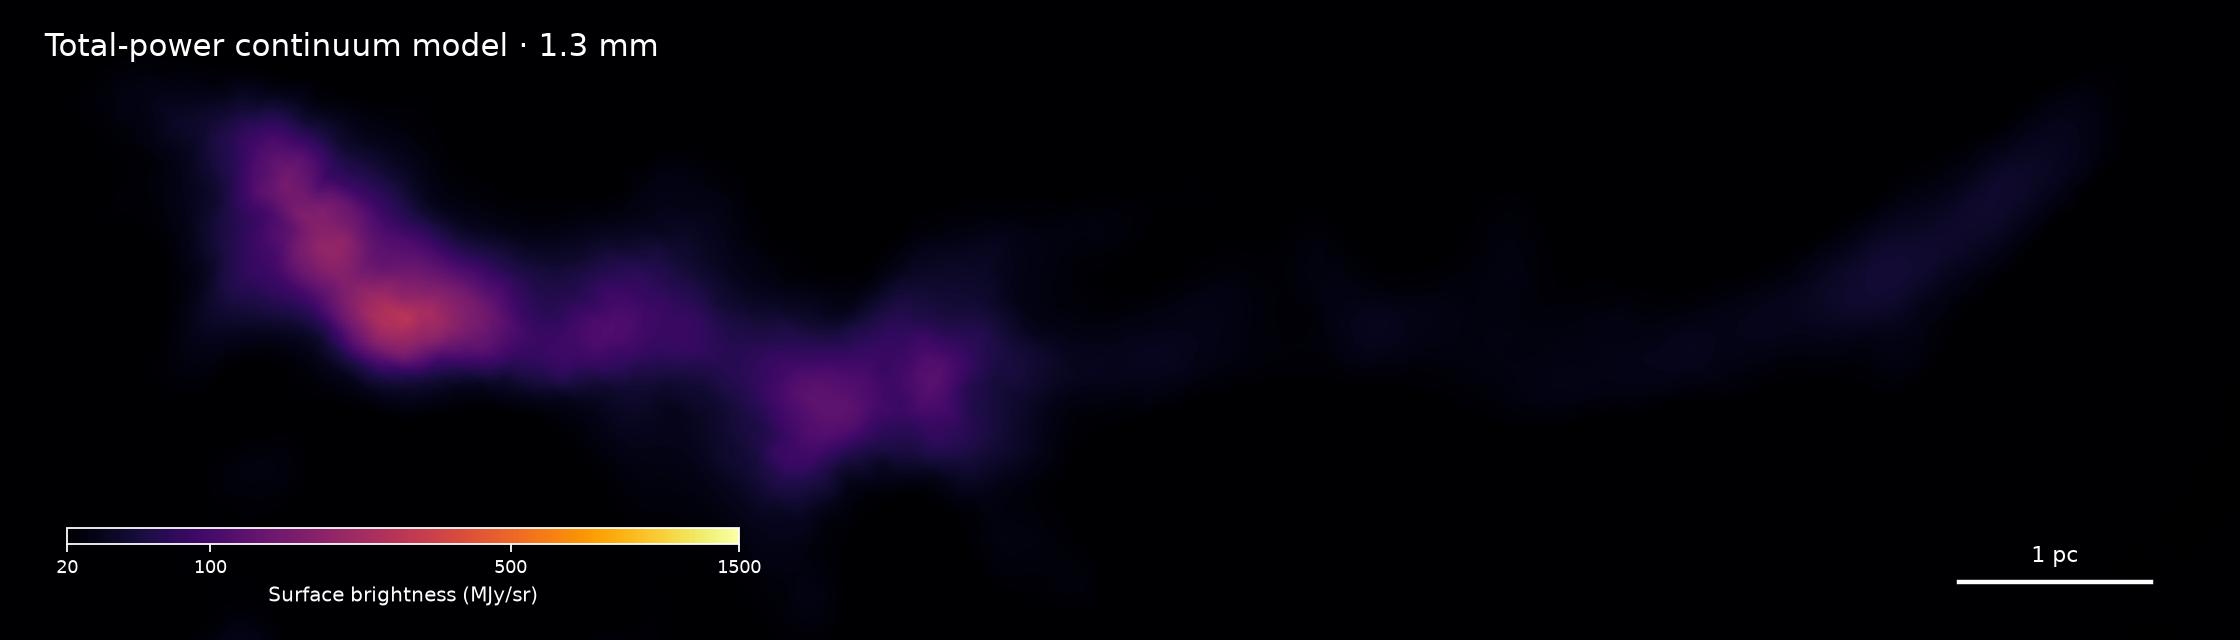
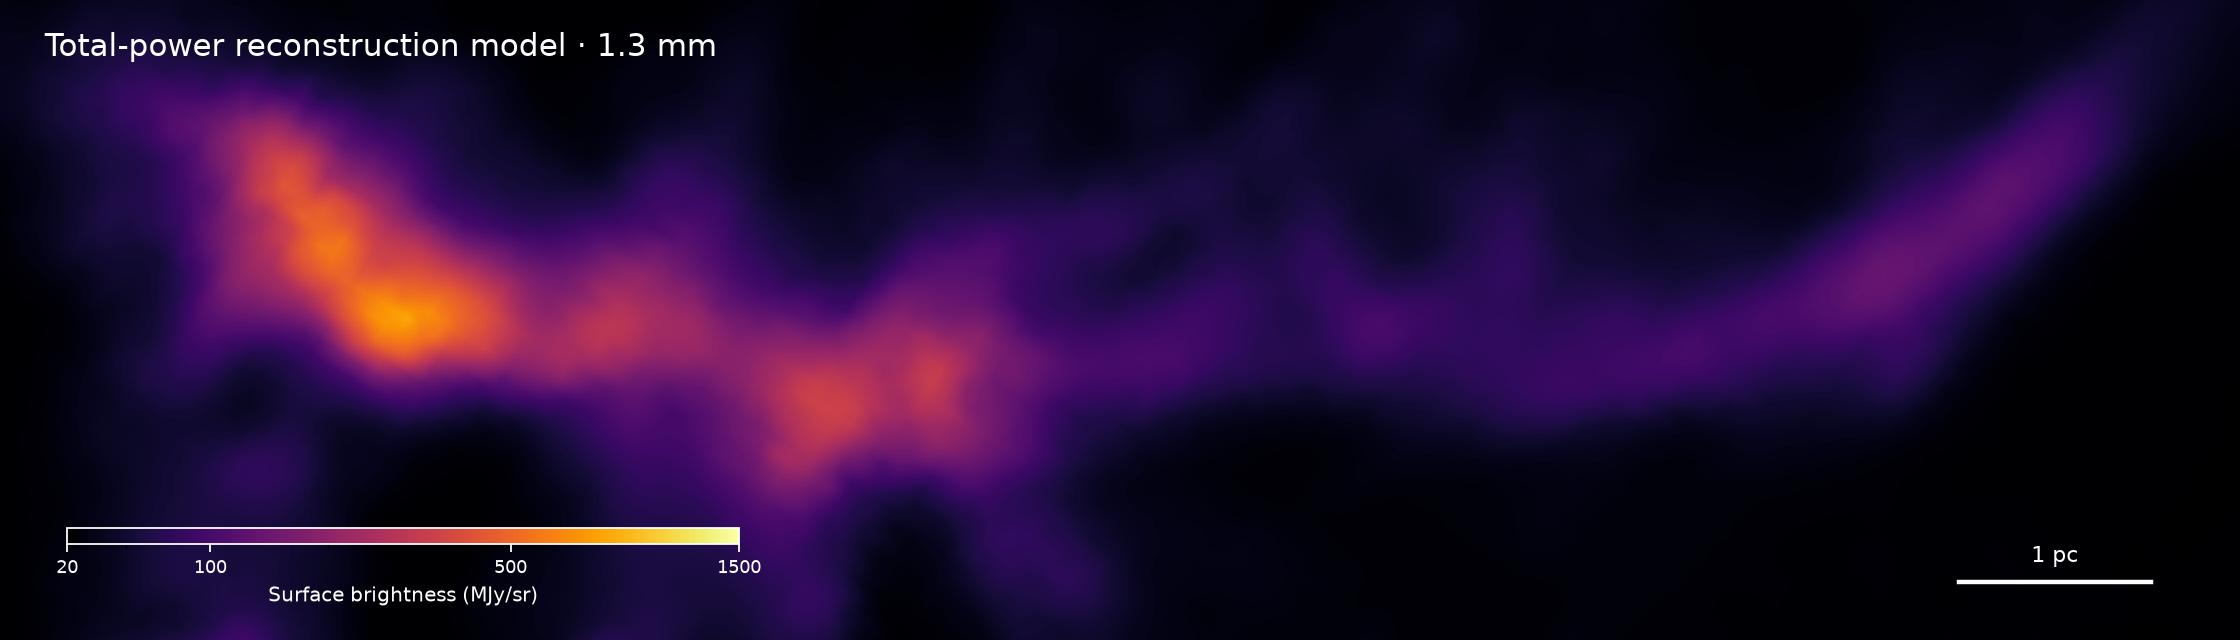
Brighten total-power gallery reconstruction by 2.7

diff --git a/website/observations.html b/website/observations.html
@@ -1,4 +1,4 @@
-<!doctype html><html lang="en"><head><meta charset="utf-8"><meta name="viewport" content="width=device-width,initial-scale=1"><meta name="description" content="LANCET explores how gas assembles into stars and clusters in the G316.8 filament."><title>Observations · LANCET</title><link rel="stylesheet" href="style.css?v=matched-mm"></head><body><a class="skip" href="#main">Skip to content</a><header><a class="brand logo-brand" href="index.html" aria-label="LANCET home"><img src="assets/lancet-logo.png?v=antenna-20261110" alt="LANCET" width="1536" height="1024"></a><nav aria-label="Main navigation"><a  href='index.html'>The project</a><a aria-current='page' href='observations.html'>Observations</a><a  href='research.html'>Research</a><a  href='team.html'>Our team</a></nav><a class="code" href="https://github.com/XFengwei/LANCET">Code ↗</a></header><main id="main"><section class="page-top"><span class="eyebrow">Our window into the cloud</span><h1>Collecting<br><em>faint light.</em></h1><p class="lead">Complementary telescopes connect the extended reservoir to the compact structures within it.</p></section><div class="telescope-grid">
+<!doctype html><html lang="en"><head><meta charset="utf-8"><meta name="viewport" content="width=device-width,initial-scale=1"><meta name="description" content="LANCET explores how gas assembles into stars and clusters in the G316.8 filament."><title>Observations · LANCET</title><link rel="stylesheet" href="style.css?v=tp-brightened"></head><body><a class="skip" href="#main">Skip to content</a><header><a class="brand logo-brand" href="index.html" aria-label="LANCET home"><img src="assets/lancet-logo.png?v=antenna-20261110" alt="LANCET" width="1536" height="1024"></a><nav aria-label="Main navigation"><a  href='index.html'>The project</a><a aria-current='page' href='observations.html'>Observations</a><a  href='research.html'>Research</a><a  href='team.html'>Our team</a></nav><a class="code" href="https://github.com/XFengwei/LANCET">Code ↗</a></header><main id="main"><section class="page-top"><span class="eyebrow">Our window into the cloud</span><h1>Collecting<br><em>faint light.</em></h1><p class="lead">Complementary telescopes connect the extended reservoir to the compact structures within it.</p></section><div class="telescope-grid">
 <a class="telescope-card" href="https://www.almaobservatory.org/"><img src="assets/telescope-alma-ann13016a.jpg" alt="ALMA antennas at night beneath the Magellanic Clouds" loading="lazy"><div class="telescope-copy"><span class="eyebrow">1.3 mm / continuum & spectral lines</span><h3>ALMA <span aria-hidden="true">↗</span></h3><p>The 12 m C2 and C5 configurations and the ACA 7 m array resolve dense cores while retaining larger filament structure. Band 6 observations combine 1.3 mm continuum with molecular lines including C¹⁸O, CO, H₂CO, ¹³CS, and N₂D⁺; total-power line data recover extended gas.</p><small>Image: ESO / C. Malin</small></div></a>
 <a class="telescope-card" href="https://www.esa.int/Science_Exploration/Space_Science/Herschel"><img src="assets/telescope-herschel.jpg" alt="Artist’s impression of the Herschel space telescope" loading="lazy"><div class="telescope-copy"><span class="eyebrow">70–500 μm / far infrared</span><h3>Herschel <span aria-hidden="true">↗</span></h3><p>PACS and SPIRE maps trace the cloud’s thermal dust emission. The far-infrared spectral energy distribution constrains dust temperature and column density, while the 70 μm and 250 μm views connect embedded heating sources to the extended reservoir.</p><small>Image: ESA / AOES Medialab · artist’s impression</small></div></a>
 <a class="telescope-card" href="https://www.apex-telescope.org/"><img src="assets/telescope-apex-mpifr.jpg" alt="The APEX telescope on the Chajnantor plateau" loading="lazy"><div class="telescope-copy"><span class="eyebrow">350 & 450 μm / 1.3 mm</span><h3>APEX <span aria-hidden="true">↗</span></h3><p>ArTéMiS bolometric imaging adds finer detail to the cold-dust structure traced by Herschel. Complementary nFLASH230 spectral-line observations probe molecular gas, linking single-dish measurements of the filament to the interferometric data.</p><small>Image: MPIfR</small></div></a>
@@ -6,5 +6,5 @@
 <a class="telescope-card" href="https://www.eso.org/public/teles-instr/paranal-observatory/surveytelescopes/vista/"><img src="assets/telescope-vista.jpg" alt="VISTA telescope inside its enclosure at Paranal" loading="lazy"><div class="telescope-copy"><span class="eyebrow">1.25–2.15 μm / near infrared</span><h3>VISTA <span aria-hidden="true">↗</span></h3><p>VVV J, H, and Kₛ imagery traces the stellar population and extinction across the filament. Together with GLIMPSE photometry, these data distinguish evolutionary stages from the dark northern cloud to the illuminated southern H II regions.</p><small>Image: ESO</small></div></a>
 <a class="telescope-card" href="https://www.atnf.csiro.au/facilities/australia-telescope-compact-array/"><img src="assets/telescope-atca.jpg" alt="Radio dishes of the Australia Telescope Compact Array" loading="lazy"><div class="telescope-copy"><span class="eyebrow">5.5 GHz / 5.5 cm</span><h3>ATCA <span aria-hidden="true">↗</span></h3><p>The CORNISH-South 5.5 GHz continuum map resolves ionized emission at 2.5 arcsec. It constrains free-free emission around the H II regions and its contribution to the millimetre continuum used for core and fragment mass estimates.</p><small>Image: CSIRO</small></div></a>
 <a class="telescope-card" href="https://www.sarao.ac.za/science/meerkat/"><img src="assets/telescope-meerkat.jpg" alt="MeerKAT radio interferometer in the Karoo" loading="lazy"><div class="telescope-copy"><span class="eyebrow">0.9–1.6 GHz / 19–33 cm</span><h3>MeerKAT <span aria-hidden="true">↗</span></h3><p>The MeerKAT Galactic Plane Survey maps extended radio emission along the filament. Its multi-frequency continuum data, including the 1.38 GHz view shown on our front page, complement ATCA in modelling the free-free contribution to the total continuum.</p><small>Image: SARAO</small></div></a>
-</div><section><div class="section-head"><div><span class="eyebrow">A closer look</span><h2>The invisible, revealed.</h2></div><a href="observations.html">Discover the data ↗</a></div><figure class="wavelength-gallery"><div class="gallery-frames"><img class="gallery-frame is-visible" src="assets/gallery-nir.jpg?v=gallery-3" alt="Near-infrared view of G316.8 with wavelength label, compass and scale bar"><img class="gallery-frame" src="assets/gallery-mir.jpg?v=gallery-3" alt="Mid-infrared view of G316.8 with wavelength label, compass and scale bar"><img class="gallery-frame" src="assets/gallery-fir.jpg?v=gallery-3" alt="Far-infrared view of G316.8 with wavelength label, compass and scale bar"><img class="gallery-frame" src="assets/gallery-mm.jpg?v=gallery-3" alt="Millimeter view of G316.8 with wavelength label, compass and scale bar"><img class="gallery-frame" src="assets/gallery-radio.jpg?v=gallery-3" alt="Radio view of G316.8 with wavelength label, compass and scale bar"></div><div class="gallery-buttons" aria-label="Choose wavelength"><button type="button" aria-pressed="true">Near-infrared</button><button type="button" aria-pressed="false">Mid-infrared</button><button type="button" aria-pressed="false">Far-infrared</button><button type="button" aria-pressed="false">Millimeter</button><button type="button" aria-pressed="false">Radio</button></div><figcaption>The same filament across five wavelength ranges, from near-infrared to radio. Select a wavelength to explore; the gallery advances every five seconds and pauses while you interact.</figcaption></figure></section><section><span class="eyebrow">The survey footprint</span><h2>Entire filament, fully covered</h2><figure><a href="assets/footprints.jpg"><img class="science-image" src="assets/footprints.jpg" alt="ACA 7 m and ALMA 12 m pointing footprints over Herschel 250 micron and Spitzer 5.8 micron maps"></a><figcaption>Actual pointing centres (12 m C2 and C5 share the same blue color) over Herschel 250 μm and Spitzer 5.8 μm maps. Circles show approximate primary-beam FWHM at 225 GHz: 43 arcsec for 7 m and 26 arcsec for 12 m. These illustrate individual fields, not a uniform mosaic sensitivity boundary. Click to enlarge.</figcaption></figure></section><section><span class="eyebrow">Continuum / from sampling to structure</span><h2>Recovering the full picture.</h2><p>Our largely completed continuum workflow combines complementary array configurations and a model of extended emission. Each step below exposes the evidence behind the resulting image.</p><div class="workflow-step"><h3>01 / Pointings and spatial-frequency coverage</h3><p>ACA 7 m and ALMA 12 m pointing centres, uv coverage, and visibility-amplitude profiles. The TP reference represents the reconstructed continuum model.</p><figure><a href="assets/coverage.jpg"><img class="science-image" loading="lazy" src="assets/coverage.jpg" alt="ACA 7 m and ALMA 12 m pointing centres, uv coverage, and visibility-amplitude profiles. The TP reference represents the reconstructed continuum model."></a><figcaption>ACA 7 m and ALMA 12 m pointing centres, uv coverage, and visibility-amplitude profiles. The TP reference represents the reconstructed continuum model. Click to view at full size.</figcaption></figure></div><div class="workflow-step"><h3>02 / Combining arrays and restoring extended emission</h3><p>From individual arrays to the fully combined continuum: compare compact structure and extended emission across the full filament.</p><figure class="wavelength-gallery"><div class="gallery-frames array-gallery-frames"><img class="gallery-frame is-visible" src="assets/array-aca.jpg?v=matched-mm" alt="ACA 7 m, full filament view with a shared surface-brightness colour bar"><img class="gallery-frame" src="assets/array-12m.jpg?v=matched-mm" alt="ALMA 12 m, full filament view with a shared surface-brightness colour bar"><img class="gallery-frame" src="assets/array-combined.jpg?v=matched-mm" alt="12 m + 7 m, full filament view with a shared surface-brightness colour bar"><img class="gallery-frame" src="assets/array-tp.jpg?v=matched-mm" alt="Total power, full filament view with a shared surface-brightness colour bar"><img class="gallery-frame" src="assets/array-full.jpg?v=matched-mm" alt="Fully combined, full filament view with a shared surface-brightness colour bar"></div><div class="gallery-buttons" aria-label="Choose continuum product"><button type="button" aria-pressed="true">ACA 7 m</button><button type="button" aria-pressed="false">ALMA 12 m</button><button type="button" aria-pressed="false">12 m + 7 m</button><button type="button" aria-pressed="false">Total power</button><button type="button" aria-pressed="false">Fully combined</button></div><figcaption>All five views match the multiwavelength millimeter panel’s 14 × 4 arcmin field, rotation, and inferno colour scale (20–1500 MJy/sr, with the same asinh stretch). Total power is the reconstructed dust-plus-free-free continuum model; J-comb combines it with the interferometric image to restore extended emission. As in the multiwavelength panel, the fully combined view uses the continuum model to fill beyond the interferometric footprint. Images retain their native angular resolutions. Select a product or follow the five-second crossfades.</figcaption></figure></div></section><section><span class="eyebrow">Spectral lines / a separate workflow</span><h2>Resolving the gas in velocity.</h2><p>All six targeted narrow spectral windows documented in Paper I are listed below. Frequencies are observing-window centres, not molecular rest frequencies. Coverage does not imply that every transition is detected or has a completed combined cube.</p><div class="table-wrap"><table><thead><tr><th>Molecule</th><th>Transition</th><th>Window centre (GHz)</th></tr></thead><tbody><tr><td>H₂CO</td><td>3₀₃–2₀₂</td><td>218.248</td></tr><tr><td>H₂CO</td><td>3₂₂–2₂₁</td><td>218.484</td></tr><tr><td>C¹⁸O</td><td>2–1</td><td>219.587</td></tr><tr><td>CO</td><td>2–1</td><td>230.565</td></tr><tr><td>¹³CS</td><td>5–4</td><td>231.249</td></tr><tr><td>N₂D⁺</td><td>3–2</td><td>231.350</td></tr></tbody></table></div><p>Two wide windows centred at 216.732 and 230.940 GHz provide additional spectral coverage and continuum bandwidth.</p><div class="cards"><article><span class="eyebrow">01 / PREPARE</span><h3>Continuum subtraction</h3><p>Line-free channels are fitted in visibility space before cube imaging.</p></article><article><span class="eyebrow">02 / IMAGE</span><h3>Joint array imaging</h3><p>Current C¹⁸O work tests joint 12 m and 7 m imaging. H₂CO 3₀₃–2₀₂ continuum-subtracted measurement sets are also available.</p></article><article><span class="eyebrow">03 / COMBINE</span><h3>Recover extended line emission</h3><p>The C¹⁸O pilot combines the interferometric cube with LSRK total-power data. Its processing status is distinct from the completed continuum products.</p></article></div></section><section class="technical"><span class="eyebrow">Work with LANCET</span><h2>Science with a traceable workflow.</h2><p>The Python package, runnable scripts, and per-task documentation live together in the repository. Data-dependent tasks require their declared local inputs; observational data are not bundled with the code.</p><pre><code>python -m pip install -e ".[dev]"
+</div><section><div class="section-head"><div><span class="eyebrow">A closer look</span><h2>The invisible, revealed.</h2></div><a href="observations.html">Discover the data ↗</a></div><figure class="wavelength-gallery"><div class="gallery-frames"><img class="gallery-frame is-visible" src="assets/gallery-nir.jpg?v=gallery-3" alt="Near-infrared view of G316.8 with wavelength label, compass and scale bar"><img class="gallery-frame" src="assets/gallery-mir.jpg?v=gallery-3" alt="Mid-infrared view of G316.8 with wavelength label, compass and scale bar"><img class="gallery-frame" src="assets/gallery-fir.jpg?v=gallery-3" alt="Far-infrared view of G316.8 with wavelength label, compass and scale bar"><img class="gallery-frame" src="assets/gallery-mm.jpg?v=gallery-3" alt="Millimeter view of G316.8 with wavelength label, compass and scale bar"><img class="gallery-frame" src="assets/gallery-radio.jpg?v=gallery-3" alt="Radio view of G316.8 with wavelength label, compass and scale bar"></div><div class="gallery-buttons" aria-label="Choose wavelength"><button type="button" aria-pressed="true">Near-infrared</button><button type="button" aria-pressed="false">Mid-infrared</button><button type="button" aria-pressed="false">Far-infrared</button><button type="button" aria-pressed="false">Millimeter</button><button type="button" aria-pressed="false">Radio</button></div><figcaption>The same filament across five wavelength ranges, from near-infrared to radio. Select a wavelength to explore; the gallery advances every five seconds and pauses while you interact.</figcaption></figure></section><section><span class="eyebrow">The survey footprint</span><h2>Entire filament, fully covered</h2><figure><a href="assets/footprints.jpg"><img class="science-image" src="assets/footprints.jpg" alt="ACA 7 m and ALMA 12 m pointing footprints over Herschel 250 micron and Spitzer 5.8 micron maps"></a><figcaption>Actual pointing centres (12 m C2 and C5 share the same blue color) over Herschel 250 μm and Spitzer 5.8 μm maps. Circles show approximate primary-beam FWHM at 225 GHz: 43 arcsec for 7 m and 26 arcsec for 12 m. These illustrate individual fields, not a uniform mosaic sensitivity boundary. Click to enlarge.</figcaption></figure></section><section><span class="eyebrow">Continuum / from sampling to structure</span><h2>Recovering the full picture.</h2><p>Our largely completed continuum workflow combines complementary array configurations and a model of extended emission. Each step below exposes the evidence behind the resulting image.</p><div class="workflow-step"><h3>01 / Pointings and spatial-frequency coverage</h3><p>ACA 7 m and ALMA 12 m pointing centres, uv coverage, and visibility-amplitude profiles. The TP reference represents the reconstructed continuum model.</p><figure><a href="assets/coverage.jpg"><img class="science-image" loading="lazy" src="assets/coverage.jpg" alt="ACA 7 m and ALMA 12 m pointing centres, uv coverage, and visibility-amplitude profiles. The TP reference represents the reconstructed continuum model."></a><figcaption>ACA 7 m and ALMA 12 m pointing centres, uv coverage, and visibility-amplitude profiles. The TP reference represents the reconstructed continuum model. Click to view at full size.</figcaption></figure></div><div class="workflow-step"><h3>02 / Combining arrays and restoring extended emission</h3><p>From individual arrays to the fully combined continuum: compare compact structure and extended emission across the full filament.</p><figure class="wavelength-gallery"><div class="gallery-frames array-gallery-frames"><img class="gallery-frame is-visible" src="assets/array-aca.jpg?v=tp-brightened" alt="ACA 7 m, full filament view with a shared surface-brightness colour bar"><img class="gallery-frame" src="assets/array-12m.jpg?v=tp-brightened" alt="ALMA 12 m, full filament view with a shared surface-brightness colour bar"><img class="gallery-frame" src="assets/array-combined.jpg?v=tp-brightened" alt="12 m + 7 m, full filament view with a shared surface-brightness colour bar"><img class="gallery-frame" src="assets/array-tp.jpg?v=tp-brightened" alt="Total power, full filament view with a shared surface-brightness colour bar"><img class="gallery-frame" src="assets/array-full.jpg?v=tp-brightened" alt="Fully combined, full filament view with a shared surface-brightness colour bar"></div><div class="gallery-buttons" aria-label="Choose continuum product"><button type="button" aria-pressed="true">ACA 7 m</button><button type="button" aria-pressed="false">ALMA 12 m</button><button type="button" aria-pressed="false">12 m + 7 m</button><button type="button" aria-pressed="false">Total power</button><button type="button" aria-pressed="false">Fully combined</button></div><figcaption>All five views match the multiwavelength millimeter panel’s 14 × 4 arcmin field, rotation, and inferno colour scale (20–1500 MJy/sr, with the same asinh stretch). Total power is the reconstructed dust-plus-free-free continuum model, brightened by a display factor of 2.7; J-comb combines it with the interferometric image to restore extended emission. As in the multiwavelength panel, the fully combined view uses the continuum model to fill beyond the interferometric footprint. Images retain their native angular resolutions. Select a product or follow the five-second crossfades.</figcaption></figure></div></section><section><span class="eyebrow">Spectral lines / a separate workflow</span><h2>Resolving the gas in velocity.</h2><p>All six targeted narrow spectral windows documented in Paper I are listed below. Frequencies are observing-window centres, not molecular rest frequencies. Coverage does not imply that every transition is detected or has a completed combined cube.</p><div class="table-wrap"><table><thead><tr><th>Molecule</th><th>Transition</th><th>Window centre (GHz)</th></tr></thead><tbody><tr><td>H₂CO</td><td>3₀₃–2₀₂</td><td>218.248</td></tr><tr><td>H₂CO</td><td>3₂₂–2₂₁</td><td>218.484</td></tr><tr><td>C¹⁸O</td><td>2–1</td><td>219.587</td></tr><tr><td>CO</td><td>2–1</td><td>230.565</td></tr><tr><td>¹³CS</td><td>5–4</td><td>231.249</td></tr><tr><td>N₂D⁺</td><td>3–2</td><td>231.350</td></tr></tbody></table></div><p>Two wide windows centred at 216.732 and 230.940 GHz provide additional spectral coverage and continuum bandwidth.</p><div class="cards"><article><span class="eyebrow">01 / PREPARE</span><h3>Continuum subtraction</h3><p>Line-free channels are fitted in visibility space before cube imaging.</p></article><article><span class="eyebrow">02 / IMAGE</span><h3>Joint array imaging</h3><p>Current C¹⁸O work tests joint 12 m and 7 m imaging. H₂CO 3₀₃–2₀₂ continuum-subtracted measurement sets are also available.</p></article><article><span class="eyebrow">03 / COMBINE</span><h3>Recover extended line emission</h3><p>The C¹⁸O pilot combines the interferometric cube with LSRK total-power data. Its processing status is distinct from the completed continuum products.</p></article></div></section><section class="technical"><span class="eyebrow">Work with LANCET</span><h2>Science with a traceable workflow.</h2><p>The Python package, runnable scripts, and per-task documentation live together in the repository. Data-dependent tasks require their declared local inputs; observational data are not bundled with the code.</p><pre><code>python -m pip install -e ".[dev]"
 python scripts/prepare_continuum_images.py --stage inspect</code></pre><a class="button" href="https://github.com/XFengwei/LANCET/tree/main/tasks">Explore task documentation ↗</a></section></main><footer><a class="brand logo-brand" href="index.html" aria-label="LANCET home"><img src="assets/lancet-logo.png?v=antenna-20261110" alt="LANCET" width="1536" height="1024"></a><p>Linear filament and nested cluster evolution tomography</p><a href="https://github.com/XFengwei/LANCET">Explore the repository ↗</a></footer><script src="gallery.js?v=arrays-1" defer></script></body></html>

diff --git a/website/tools/build_array_gallery.py b/website/tools/build_array_gallery.py
@@ -18,7 +18,7 @@ view = tomllib.loads((ROOT/'tasks/multiwavelength_strip/task.toml').read_text())
 # Use the exact field, rotation, and sampling of the multiwavelength gallery.
 wcs, shape = strip.strip_wcs(view)
 inputs = [(name, ROOT/config['images'][key], label) for name, key, label in [('aca','aca_pbcor','ACA 7 m'), ('12m','twelve_m_pbcor','ALMA 12 m'), ('combined','combined_pbcut','ALMA 12 m + ACA 7 m')]]
-inputs += [('tp', ROOT/'results/synthesize_continuum/model/continuum_230GHz.fits', 'Total-power continuum model'), ('full', ROOT/'results/multiwavelength_strip/grid/mm_i.fits', 'Fully combined 12 m + 7 m + TP')]
+inputs += [('tp', ROOT/'results/synthesize_continuum/model/continuum_230GHz.fits', 'Total-power reconstruction model'), ('full', ROOT/'results/multiwavelength_strip/grid/mm_i.fits', 'Fully combined 12 m + 7 m + TP')]
 for name, path, label in inputs:
     with fits.open(path, memmap=True) as hdul:
         values = np.squeeze(hdul[0].data)
@@ -26,6 +26,8 @@ for name, path, label in inputs:
             # Convert Jy/beam to MJy/sr before applying the common display scale.
             beam_sr = np.pi/(4*np.log(2))*np.deg2rad(hdul[0].header['BMAJ'])*np.deg2rad(hdul[0].header['BMIN'])
             values = values / beam_sr / 1e6
+        if name == 'tp':
+            values = values * 2.7
         data, footprint = reproject_interp((values, WCS(hdul[0].header).celestial), wcs, shape_out=shape)
     fig = plt.figure(figsize=(14, 4), dpi=160, facecolor='black')
     ax = fig.add_axes([0,0,1,1]); ax.set_facecolor('black')
